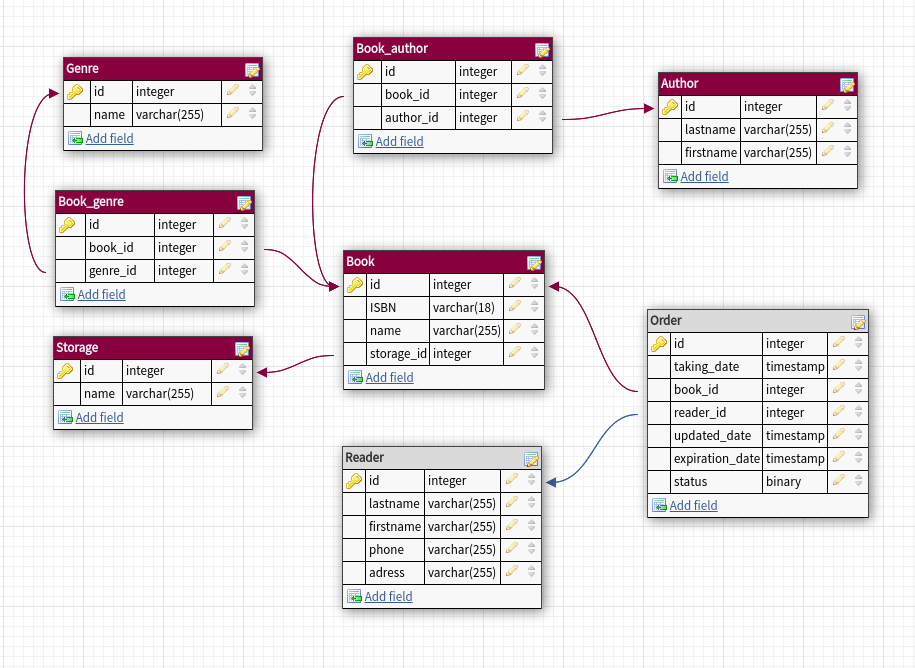
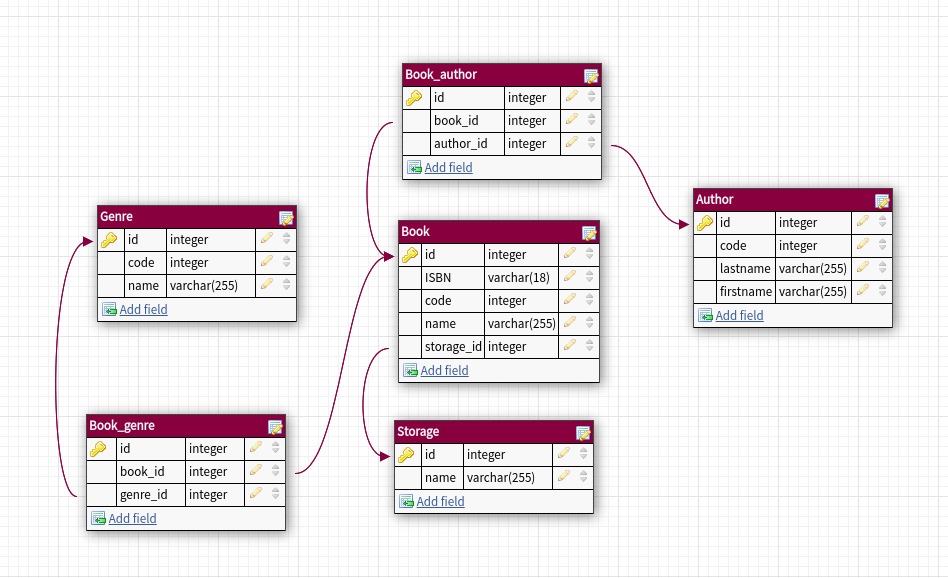
add connections

Changed region(s): [[0.0, 0.0311, 0.9792, 0.9343], [0.0306, 0.0623, 0.306, 0.2491]]

diff --git a/database/migrations/2020_12_13_155353_create_author_book_table.php b/database/migrations/2020_12_13_155353_create_author_book_table.php
@@ -1,0 +1,35 @@
+<?php
+
+use Illuminate\Database\Migrations\Migration;
+use Illuminate\Database\Schema\Blueprint;
+use Illuminate\Support\Facades\Schema;
+
+class CreateAuthorBookTable extends Migration
+{
+    /**
+     * Run the migrations.
+     *
+     * @return void
+     */
+    public function up()
+    {
+        Schema::create('author_book', function (Blueprint $table) {
+            $table->id();
+            $table->unsignedBigInteger('book_id');
+            $table->unsignedBigInteger('author_id');
+            $table->timestamps();
+            $table->foreign('book_id')->references('id')->on('books')->onDelete('cascade');
+            $table->foreign('author_id')->references('id')->on('authors')->onDelete('cascade');
+        });
+    }
+
+    /**
+     * Reverse the migrations.
+     *
+     * @return void
+     */
+    public function down()
+    {
+        Schema::dropIfExists('author_book');
+    }
+}

diff --git a/database/migrations/2020_12_13_095025_create_book_genre_table.php b/database/migrations/2020_12_13_095025_create_book_genre_table.php
@@ -1,0 +1,36 @@
+<?php
+
+use Illuminate\Database\Migrations\Migration;
+use Illuminate\Database\Schema\Blueprint;
+use Illuminate\Support\Facades\Schema;
+
+class CreateBookGenreTable extends Migration
+{
+    /**
+     * Run the migrations.
+     *
+     * @return void
+     */
+    public function up()
+    {
+        Schema::create('book_genre', function (Blueprint $table) {
+            $table->id();
+            $table->unsignedBigInteger('book_id');
+            $table->unsignedBigInteger('genre_id');
+            $table->timestamps();
+            $table->foreign('book_id')->references('id')->on('books')->onDelete('cascade');
+            $table->foreign('genre_id')->references('id')->on('genres')->onDelete('cascade');
+
+        });
+    }
+
+    /**
+     * Reverse the migrations.
+     *
+     * @return void
+     */
+    public function down()
+    {
+        Schema::dropIfExists('book_genre');
+    }
+}

diff --git a/routes/web.php b/routes/web.php
@@ -1,7 +1,9 @@
 <?php
 
+use App\Http\Controllers\AuthorBookContoller;
 use App\Http\Controllers\AuthorController;
 use App\Http\Controllers\BookController;
+use App\Http\Controllers\BookGenreController;
 use App\Http\Controllers\DatabaseController;
 use App\Http\Controllers\GenreController;
 use App\Http\Controllers\StorageController;
@@ -24,3 +26,5 @@ Route::resource('/book', BookController::class);
 Route::resource('/author', AuthorController::class);
 Route::resource('/genre', GenreController::class);
 Route::resource('/storage', StorageController::class);
+Route::resource('/book_genre', BookGenreController::class);
+Route::resource('/author_book', AuthorBookContoller::class);

diff --git a/app/Http/Controllers/DatabaseController.php b/app/Http/Controllers/DatabaseController.php
@@ -7,16 +7,16 @@ use Illuminate\Support\Facades\DB;
 
 class DatabaseController extends Controller
 {
-    function show(){
-        //$tables = DB::select('SHOW TABLES');
-        //dd($tables);
-        // TODO remove [failed_jobs migrations password_resets users] from table list
-
+    function show()
+    {
         $tables = [
             'Books' => '/book',
             'Genres' => '/genre',
             'Authors' => '/author',
             'Storages' => '/storage',
+            'Book - genre' => '/book_genre',
+            'Author - book' => '/author_book',
+
         ];
         return view('list', ['tables' => $tables]);
     }

diff --git a/app/Http/Controllers/AuthorBookContoller.php b/app/Http/Controllers/AuthorBookContoller.php
@@ -1,0 +1,25 @@
+<?php
+
+namespace App\Http\Controllers;
+
+use Illuminate\Http\Request;
+
+class AuthorBookContoller extends EntityController
+{
+    protected $model = 'App\Models\AuthorBook';
+
+    protected $title = 'Author - book';
+
+    protected $routeIndex = 'author_book.index';
+    protected $routeShow = 'author_book.show';
+    protected $routeCreate = 'author_book.create';
+    protected $routeEdit = 'author_book.edit';
+
+    protected $validationRules = [];
+
+    protected $columns = [
+        'book_id' => 'number',
+        'author_id' => 'number',
+    ];
+
+}

diff --git a/app/Http/Controllers/BookGenreController.php b/app/Http/Controllers/BookGenreController.php
@@ -1,0 +1,25 @@
+<?php
+
+namespace App\Http\Controllers;
+
+use Illuminate\Http\Request;
+
+class BookGenreController extends EntityController
+{
+    protected $model = 'App\Models\BookGenre';
+
+    protected $title = 'Book - genre';
+
+    protected $routeIndex = 'book_genre.index';
+    protected $routeShow = 'book_genre.show';
+    protected $routeCreate = 'book_genre.create';
+    protected $routeEdit = 'book_genre.edit';
+
+    protected $validationRules = [];
+
+    protected $columns = [
+        'book_id' => 'number',
+        'genre_id' => 'number',
+    ];
+
+}

diff --git a/resources/views/list.blade.php b/resources/views/list.blade.php
@@ -4,9 +4,9 @@
     <div class="container ">
         <p class="h3 mt-5 ">My tables</p>
 
-        <ul>
+        <ul class="list-group">
             @foreach($tables as $table_name => $table_url)
-                <li><a href="{{url($table_url)}}">{{$table_name}}</a></li>
+                <li class="list-group-item list-group-item-action"><a class="h5 text-dark" href="{{url($table_url)}}">{{$table_name}}</a></li>
             @endforeach
         </ul>
     </div>

diff --git a/app/Models/Book.php b/app/Models/Book.php
@@ -12,4 +12,18 @@ class Book extends Model
     use SoftDeletes;
 
     protected $fillable = ['name', 'isbn', 'storage_id'];
+
+    public function genres()
+    {
+        return $this->belongsToMany(Genre::class, 'book_genre');
+    }
+
+    public function authors()
+    {
+        return $this->belongsToMany(Genre::class, 'author_book');
+    }
+
+    public function storage(){
+        return $this->belongsTo(Storage::class);
+    }
 }

diff --git a/app/Http/Controllers/EntityController.php b/app/Http/Controllers/EntityController.php
@@ -42,12 +42,12 @@ abstract class EntityController extends Controller
     {
         return $this->columns;
     }
-
+//
 //    protected function getIndexColumns(Request $request)
 //    {
-//        return $this->getColumns($request);
+//        return $this->getIndexColumns($request);
 //    }
-//
+
 //    protected function getCreateColumns(Request $request)
 //    {
 //        return $this->getColumns($request);

diff --git a/app/Models/AuthorBook.php b/app/Models/AuthorBook.php
@@ -1,0 +1,15 @@
+<?php
+
+namespace App\Models;
+
+use Illuminate\Database\Eloquent\Factories\HasFactory;
+use Illuminate\Database\Eloquent\Model;
+
+class AuthorBook extends Model
+{
+    use HasFactory;
+
+    protected $table = 'author_book';
+
+    protected $fillable = ['author_id', 'book_id'];
+}

diff --git a/app/Http/Controllers/BookController.php b/app/Http/Controllers/BookController.php
@@ -22,10 +22,14 @@ class BookController extends EntityController
     ];
 
     protected $columns = [
-
         'name' => 'text',
         'isbn' => 'text',
         'storage_id' => 'number',
+    ];
+
+    protected $indexColumns =[
+        'name' => 'text',
+        'isbn' => 'text',
     ];
 
 }

diff --git a/app/Models/BookGenre.php b/app/Models/BookGenre.php
@@ -1,0 +1,15 @@
+<?php
+
+namespace App\Models;
+
+use Illuminate\Database\Eloquent\Factories\HasFactory;
+use Illuminate\Database\Eloquent\Model;
+
+class BookGenre extends Model
+{
+    use HasFactory;
+
+    protected $table = 'book_genre';
+
+    protected $fillable = ['genre_id', 'book_id'];
+}
